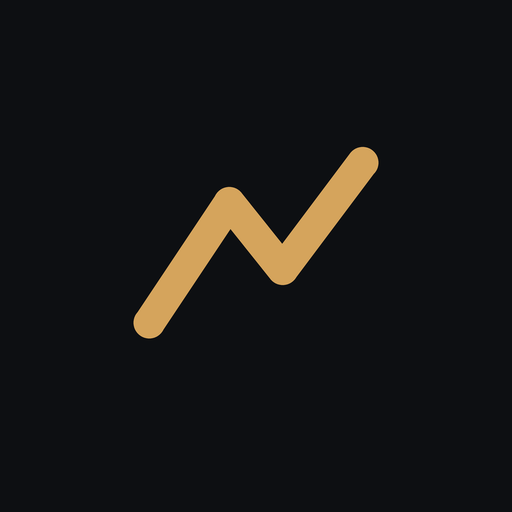
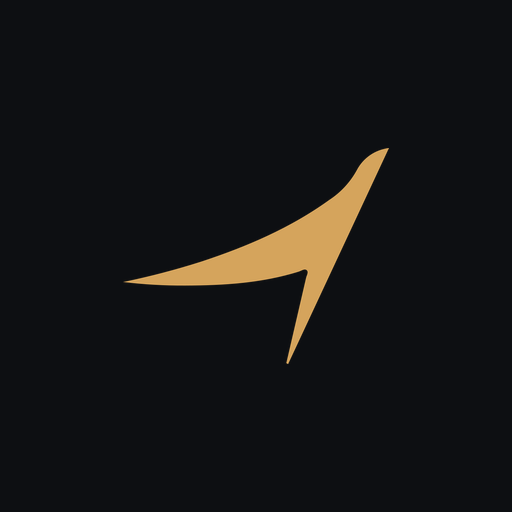
Add files via upload

Changed region(s): [[0.25, 0.2812, 0.7812, 0.7188]]

diff --git a/wedge-v02.html b/wedge-v02.html
@@ -382,7 +382,7 @@ html[dir=rtl] .conv-foot svg{transform:scaleX(-1)}
     <section class="screen active" data-screen="home" data-wedge="3">
       <div class="brand rise">
         <div class="logo">
-          <div class="mark"><svg viewBox="0 0 24 24" fill="none"><path d="M4 17 L10 8 L14 13 L20 5" stroke="#D5A45C" stroke-width="2.3" stroke-linecap="round" stroke-linejoin="round"/></svg></div>
+          <div class="mark"><svg viewBox="0 0 49.33 39.99" fill="#D5A45C"><path d="M30.28,39.83q1.83-7.89,3.66-15.77c.1-.47.52-1.07.13-1.43s-1,.12-1.51.27c-6.83,2.13-13.88,2.55-21,2.57A91.81,91.81,0,0,1,0,24.81,142.7,142.7,0,0,0,14.58,21C23,18.22,31,14.81,38.23,9.62a15.5,15.5,0,0,0,5.1-5.48,7.72,7.72,0,0,1,6-4.14L30.63,40Z"/></svg></div>
           <div class="name" data-i18n="brand">مهاجر</div>
         </div>
         <span class="badge badge-quiet" data-i18n="viewOnly">حالت مشاهده</span>
@@ -530,7 +530,7 @@ html[dir=rtl] .conv-foot svg{transform:scaleX(-1)}
     <section class="screen" data-screen="wallet" data-wedge="3">
       <div class="brand">
         <div class="logo">
-          <div class="mark"><svg viewBox="0 0 24 24" fill="none"><path d="M4 17 L10 8 L14 13 L20 5" stroke="#D5A45C" stroke-width="2.3" stroke-linecap="round" stroke-linejoin="round"/></svg></div>
+          <div class="mark"><svg viewBox="0 0 49.33 39.99" fill="#D5A45C"><path d="M30.28,39.83q1.83-7.89,3.66-15.77c.1-.47.52-1.07.13-1.43s-1,.12-1.51.27c-6.83,2.13-13.88,2.55-21,2.57A91.81,91.81,0,0,1,0,24.81,142.7,142.7,0,0,0,14.58,21C23,18.22,31,14.81,38.23,9.62a15.5,15.5,0,0,0,5.1-5.48,7.72,7.72,0,0,1,6-4.14L30.63,40Z"/></svg></div>
           <div class="name" data-i18n="brand">مهاجر</div>
         </div>
         <button class="back" onclick="go('home')" aria-label="home"><svg viewBox="0 0 24 24"><path d="M15 5l-7 7 7 7"/></svg></button>

diff --git a/wallet-v0.html b/wallet-v0.html
@@ -432,7 +432,7 @@ h1{font-size:26px;font-weight:600;letter-spacing:-.028em;line-height:1.3}
       <div style="height:12px"></div>
       <div style="display:flex;align-items:center;gap:9px;margin-bottom:26px">
         <div style="width:31px;height:31px;border-radius:10px;background:var(--ink);display:grid;place-items:center">
-          <svg viewBox="0 0 24 24" width="16" height="16" fill="none"><path d="M4 17 L10 8 L14 13 L20 5" stroke="#D5A45C" stroke-width="2.3" stroke-linecap="round" stroke-linejoin="round"/></svg>
+          <svg viewBox="0 0 49.33 39.99" width="16" height="16" fill="#D5A45C"><path d="M30.28,39.83q1.83-7.89,3.66-15.77c.1-.47.52-1.07.13-1.43s-1,.12-1.51.27c-6.83,2.13-13.88,2.55-21,2.57A91.81,91.81,0,0,1,0,24.81,142.7,142.7,0,0,0,14.58,21C23,18.22,31,14.81,38.23,9.62a15.5,15.5,0,0,0,5.1-5.48,7.72,7.72,0,0,1,6-4.14L30.63,40Z"/></svg>
         </div>
         <div style="font-size:17px;font-weight:600;letter-spacing:-.02em">مهاجر</div>
       </div>

diff --git a/design.html b/design.html
@@ -135,7 +135,7 @@ footer{border-top:1px solid var(--line);padding-top:22px;font-size:12px;color:va
     <div class="demo">
       <div style="display:flex;align-items:center;gap:10px">
         <div style="width:34px;height:34px;border-radius:11px;background:var(--ink);display:grid;place-items:center">
-          <svg viewBox="0 0 24 24" width="18" height="18" fill="none"><path d="M4 17 L10 8 L14 13 L20 5" stroke="#D5A45C" stroke-width="2.3" stroke-linecap="round" stroke-linejoin="round"/></svg>
+          <svg viewBox="0 0 49.33 39.99" width="18" height="18" fill="#D5A45C"><path d="M30.28,39.83q1.83-7.89,3.66-15.77c.1-.47.52-1.07.13-1.43s-1,.12-1.51.27c-6.83,2.13-13.88,2.55-21,2.57A91.81,91.81,0,0,1,0,24.81,142.7,142.7,0,0,0,14.58,21C23,18.22,31,14.81,38.23,9.62a15.5,15.5,0,0,0,5.1-5.48,7.72,7.72,0,0,1,6-4.14L30.63,40Z"/></svg>
         </div>
         <div style="font-size:19px;font-weight:600;letter-spacing:-.02em">مهاجر</div>
       </div>

diff --git a/onboarding.html b/onboarding.html
@@ -208,7 +208,7 @@ b{font-weight:600}
 
 <div class="prog" id="prog"></div>
 <div class="brandbar">
-  <div class="lg" onclick="show(1)"><div class="mk"><svg viewBox="0 0 24 24" width="14" height="14" fill="none"><path d="M4 17 L10 8 L14 13 L20 5" stroke="#D5A45C" stroke-width="2.4" stroke-linecap="round" stroke-linejoin="round"/></svg></div>مهاجر</div>
+  <div class="lg" onclick="show(1)"><div class="mk"><svg viewBox="0 0 49.33 39.99" width="14" height="14" fill="#D5A45C"><path d="M30.28,39.83q1.83-7.89,3.66-15.77c.1-.47.52-1.07.13-1.43s-1,.12-1.51.27c-6.83,2.13-13.88,2.55-21,2.57A91.81,91.81,0,0,1,0,24.81,142.7,142.7,0,0,0,14.58,21C23,18.22,31,14.81,38.23,9.62a15.5,15.5,0,0,0,5.1-5.48,7.72,7.72,0,0,1,6-4.14L30.63,40Z"/></svg></div>مهاجر</div>
   <div class="ch" id="chapter"></div>
   <div class="num" id="counter" style="flex:none">1 / 27</div>
 </div>

diff --git a/index.html b/index.html
@@ -74,7 +74,7 @@ footer{margin-top:40px;padding-top:20px;border-top:1px solid var(--brd);font-siz
 <div class="wrap">
 
   <div class="brand">
-    <div class="mk"><svg viewBox="0 0 24 24" width="18" height="18" fill="none"><path d="M4 17 L10 8 L14 13 L20 5" stroke="#D5A45C" stroke-width="2.4" stroke-linecap="round" stroke-linejoin="round"/></svg></div>
+    <div class="mk"><svg viewBox="0 0 49.33 39.99" width="18" height="18" fill="#D5A45C"><path d="M30.28,39.83q1.83-7.89,3.66-15.77c.1-.47.52-1.07.13-1.43s-1,.12-1.51.27c-6.83,2.13-13.88,2.55-21,2.57A91.81,91.81,0,0,1,0,24.81,142.7,142.7,0,0,0,14.58,21C23,18.22,31,14.81,38.23,9.62a15.5,15.5,0,0,0,5.1-5.48,7.72,7.72,0,0,1,6-4.14L30.63,40Z"/></svg></div>
     <div class="nm">مهاجر</div>
     <div class="ph">PHASE 3 · WS0</div>
   </div>

diff --git a/deck.html b/deck.html
@@ -163,7 +163,7 @@ html[dir=rtl] .arrows svg{transform:scaleX(-1)}
 <div class="prog" id="prog"></div>
 <div class="brandbar">
   <div class="lg">
-    <div class="mk"><svg viewBox="0 0 24 24" width="14" height="14" fill="none"><path d="M4 17 L10 8 L14 13 L20 5" stroke="#D5A45C" stroke-width="2.4" stroke-linecap="round" stroke-linejoin="round"/></svg></div>
+    <div class="mk"><svg viewBox="0 0 49.33 39.99" width="14" height="14" fill="#D5A45C"><path d="M30.28,39.83q1.83-7.89,3.66-15.77c.1-.47.52-1.07.13-1.43s-1,.12-1.51.27c-6.83,2.13-13.88,2.55-21,2.57A91.81,91.81,0,0,1,0,24.81,142.7,142.7,0,0,0,14.58,21C23,18.22,31,14.81,38.23,9.62a15.5,15.5,0,0,0,5.1-5.48,7.72,7.72,0,0,1,6-4.14L30.63,40Z"/></svg></div>
     مهاجر
   </div>
   <div class="num" id="counter">1 / 9</div>
